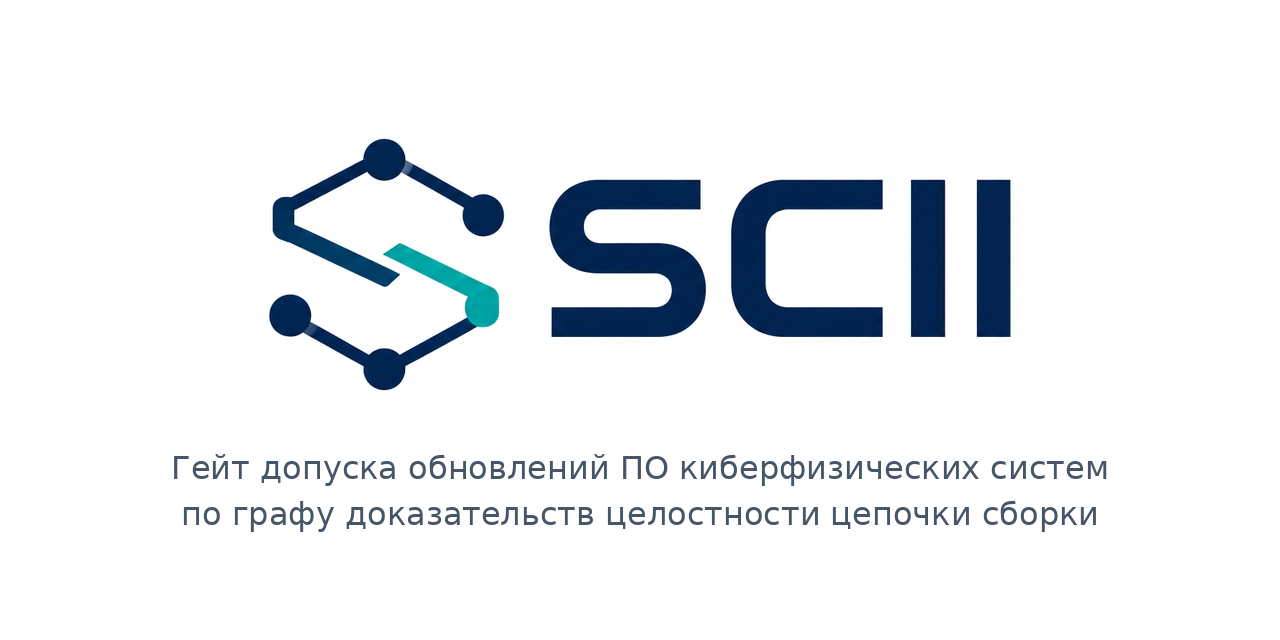
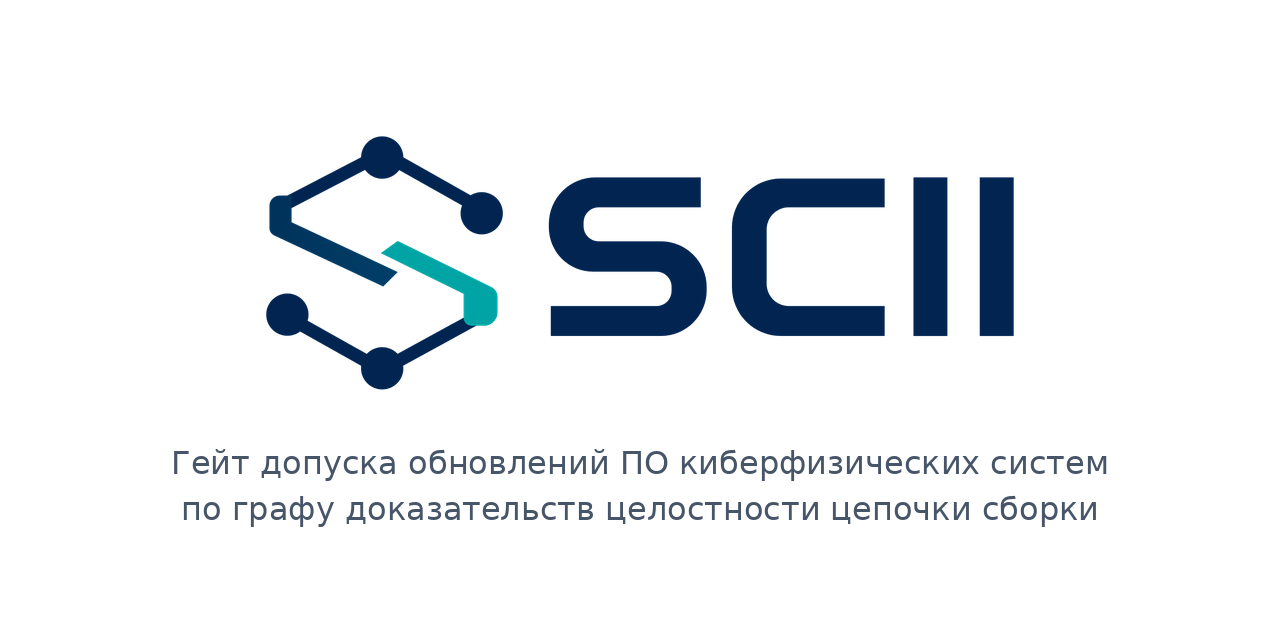
Векторный логотип: SVG (светлый, тёмный, одноцветный, знак), PDF, PNG из вектора
Построен по растровому образцу из геометрических примитивов, совпадение
площади фигур с образцом 0,989. README показывает SVG.

Claude-Session: https://claude.ai/code/session_01B6QRLyTjnHsUD2JtwQs8Mt

diff --git a/assets/README.md b/assets/README.md
@@ -1,0 +1,25 @@
+# Логотип SCII
+
+| Файл | Назначение |
+|---|---|
+| `scii-logo.svg` | основной вариант для светлого фона |
+| `scii-logo-dark.svg` | для тёмного фона |
+| `scii-logo-mono.svg` | одноцветный. Цвет задаёт `currentColor`: в документе он чёрный, на веб-странице берётся цвет текста |
+| `scii-mark.svg`, `scii-mark-dark.svg` | только знак в квадрате, для аватаров, значков и титульных слайдов |
+| `scii-logo.pdf` | вектор для LaTeX и типографии |
+| `scii-logo.png`, `scii-logo-dark.png` | растр шириной 2000 пикселей, прозрачный фон |
+| `scii-mark-512.png` | знак 512 × 512 |
+| `social-preview.png` | превью репозитория 1280 × 640 (GitHub, Settings → Social preview) |
+| `scii-logo-source.png` | исходный растровый образец |
+
+Векторные файлы построены по исходному образцу из геометрических примитивов: окружностей, отрезков, скруглённых углов. Радиусы и кромки подобраны по совпадению с образцом. Доля совпадающей площади фигур с образцом при наложении 0,989.
+
+## Цвета
+
+| Элемент | Светлый фон | Тёмный фон |
+|---|---|---|
+| Узлы, тонкие линии, надпись | `#012450` | `#E6EDF3` |
+| Левая диагональ знака (градиент) | `#00325B` → `#003F68` | `#CBE4EA` → `#B6DEE3` |
+| Правая диагональ и торец | `#01A4A4` | `#01A4A4` |
+
+Вокруг логотипа стоит оставлять свободное поле не меньше диаметра узла знака.

diff --git a/README.md b/README.md
@@ -1,7 +1,7 @@
 <p align="center">
   <picture>
-    <source media="(prefers-color-scheme: dark)" srcset="assets/scii-logo-dark.png">
-    <img src="assets/scii-logo.png" alt="Логотип SCII" width="420">
+    <source media="(prefers-color-scheme: dark)" srcset="assets/scii-logo-dark.svg">
+    <img src="assets/scii-logo.svg" alt="Логотип SCII" width="420">
   </picture>
 </p>
 
@@ -179,7 +179,7 @@ gh attestation verify arducopter.bin -R alexqzm/scii-gate \
 | `results/` | результаты прогона: results.json, отчёты гейта по сценариям, данные CI |
 | `data/` | 16 комплектов свидетельств официального прогона и отчёт статического анализа |
 | `.github/workflows/` | тесты и сборка с бесключевой аттестацией происхождения на GitHub |
-| `assets/` | логотип проекта (для светлой и тёмной темы, исходный файл), изображение для превью репозитория |
+| `assets/` | логотип проекта: SVG, PDF и PNG для светлого и тёмного фона, одноцветный вариант, знак, цвета ([assets/README.md](assets/README.md)) |
 
 ## Лицензия
 
